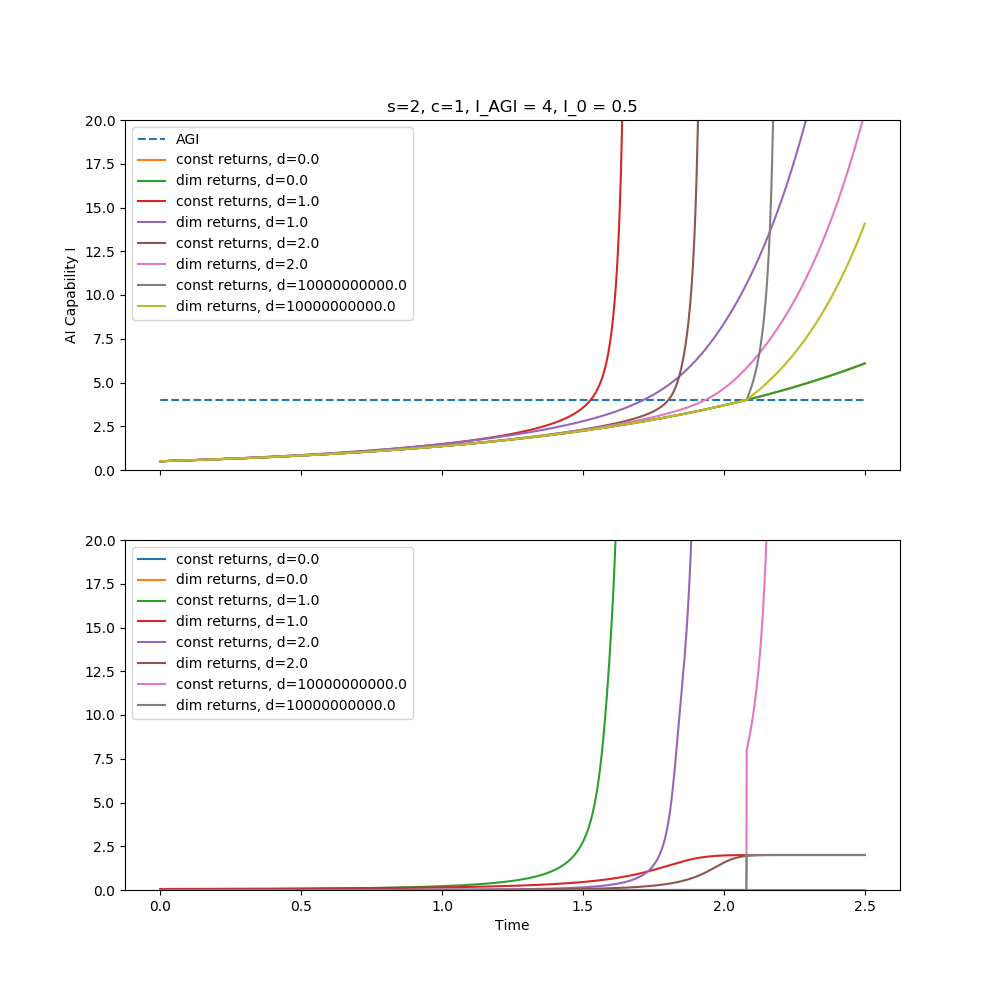
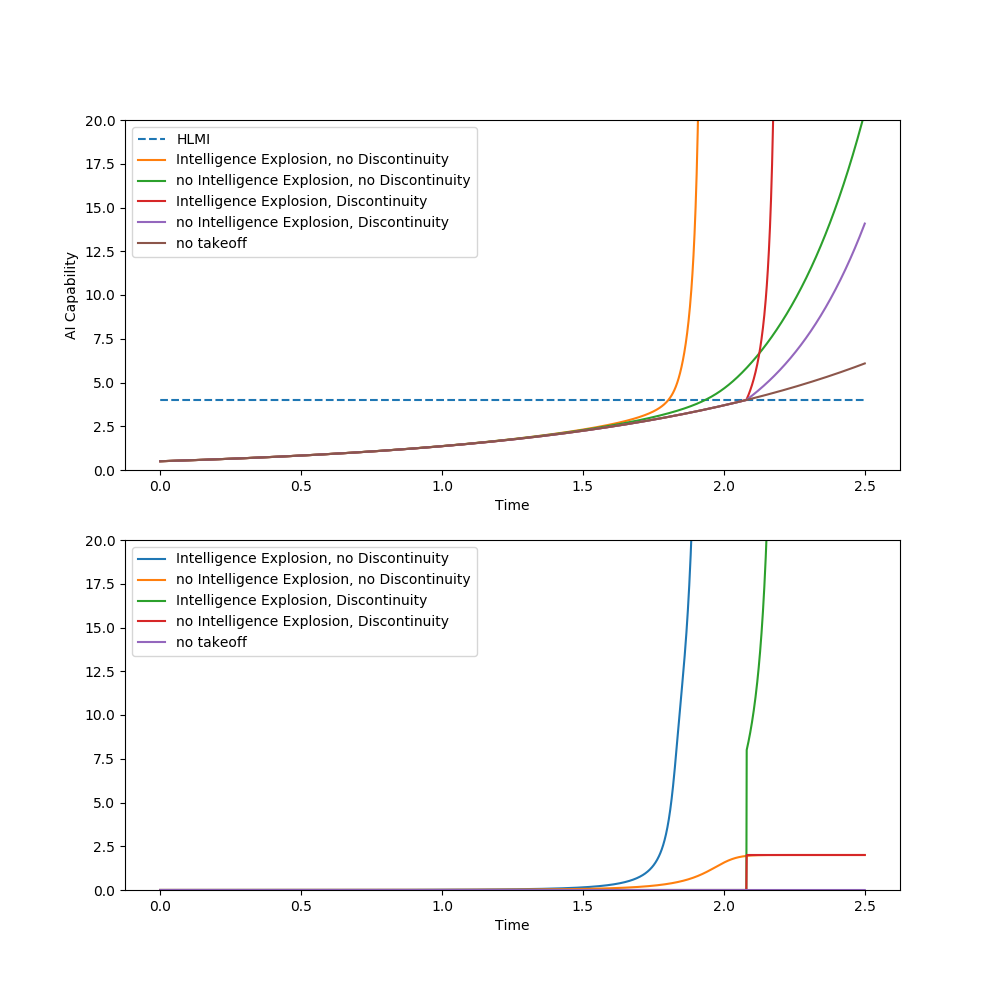
added relativistic travel ipynb

diff --git a/progress.py b/progress.py
@@ -98,7 +98,7 @@ def diminishing_returns_function(Intelligence,steep=None):
     else:
         return 0
 
-def slow_function(Intelligence):
+def slow_function(Intelligence,steep=None):
     return 0
 
 def superintelligence_box_function(Intelligence):
@@ -111,7 +111,7 @@ if __name__ == "__main__":
     c = effort = 1 #initial optimisation effort applied to AGI
     #N = 2 #how sudden is the continuous change - higher is higher order polynomial
     I_0 = IniInt = 0.5 #Initial capability of the AI system
-    krange = np.hstack((np.array([0.0,1.0,2.0]),np.array(1e10)))
+    krange = np.hstack((np.array([0.0,2.0]),np.array(1e10)))
     k=1
     d=k #steepness of logistic curve
 
@@ -124,12 +124,20 @@ if __name__ == "__main__":
     infostring = "s={}, c={}, I_AGI = {}, I_0 = {}_".format(scale,effort,AGI,IniInt)
 
     t = np.linspace(0,2*AGI,precision)
-    plt.plot(t,[yud_function(t1) for t1 in t],label='yudkowsky')
-    for k in krange:
-        plt.plot(t,[continuous_function(t1) for t1 in t],label='Continuous, '+str(k))
-    for k in krange:
-        plt.plot(t,[diminishing_returns_function(t1) for t1 in t],label='Dim_R, '+str(k))
-    
+    #plt.plot(t,[yud_function(t1) for t1 in t],label='yudkowsky')
+
+    """
+    k=1.0
+    plt.plot(t,[continuous_function(t1) for t1 in t],label='No Discontinuity, Intelligence Explosion')
+    k=1e10
+    plt.plot(t,[continuous_function(t1) for t1 in t],label='Discontinuity, Intelligence Explosion')
+    k=1.0
+    plt.plot(t,[diminishing_returns_function(t1) for t1 in t],label='No Discontinuity, No Intelligence Explosion')
+    k=1e10
+    plt.plot(t,[diminishing_returns_function(t1) for t1 in t],label='Discontinuity, No Intelligence Explosion')
+    k=1e10
+    plt.plot(t,[slow_function(t1) for t1 in t],label='No Takeoff')
+
     plt.ylim(0,2)
     #for k in krange:
     #    plt.plot(t,[diminishing_returns_function(t1) for t1 in t],label='Dim-R, '+str(k))
@@ -140,24 +148,37 @@ if __name__ == "__main__":
     plt.legend()
     plt.savefig(infostring+"RSI-able.png")
 
-    fig,(axis1,axis2) = plt.subplots(2,sharex=True,figsize=(10,10))
-    plt.xlabel("Time")
-    axis1.set_ylabel("AI Capability I")
-    axis2.set_ylabel("")
+    """
 
-    axis1.plot(np.linspace(0,top,precision),AGI+np.zeros_like(np.linspace(0,top,precision)),'--',label = 'AGI')
-    axis1.set_title(infostring[:-1])
+    fig,(axis1,axis2) = plt.subplots(2,figsize=(10,10))
+    plt.xlabel("Time")
+    axis1.set_ylabel("AI Capability")
+    axis1.set_xlabel("Time")
+
+    axis1.plot(np.linspace(0,top,precision),AGI+np.zeros_like(np.linspace(0,top,precision)),'--',label = 'HLMI')
+    #axis1.set_title(infostring[:-1])
 
     #print('Discontinuous')
     #progress = AIProgress(yud_function,effort,'Discontinuous',top,precision,IniInt)
     #progress.get_results(axis1,axis2)
 
     print('Continuous')
-    for k in krange:
-        progress2 = AIProgress(continuous_function,effort, 'const returns, d=' +str(k),top,precision,IniInt)
-        progress3 = AIProgress(diminishing_returns_function,effort, 'dim returns, d=' +str(k),top,precision,IniInt)
-        progress2.get_results(axis1,axis2)
-        progress3.get_results(axis1,axis2)
+    
+    k=2.0
+    progress2 = AIProgress(continuous_function,effort, 'Intelligence Explosion, no Discontinuity',top,precision,IniInt)
+    progress3 = AIProgress(diminishing_returns_function,effort, 'no Intelligence Explosion, no Discontinuity',top,precision,IniInt)
+    
+    progress2.get_results(axis1,axis2)
+    progress3.get_results(axis1,axis2)
+
+    k=1e10
+    progress4 = AIProgress(continuous_function,effort, 'Intelligence Explosion, Discontinuity',top,precision,IniInt)
+    progress5 = AIProgress(diminishing_returns_function,effort, 'no Intelligence Explosion, Discontinuity',top,precision,IniInt)
+    progress6 = AIProgress(slow_function,effort, 'no takeoff',top,precision,IniInt)
+    
+    progress4.get_results(axis1,axis2)
+    progress5.get_results(axis1,axis2)
+    progress6.get_results(axis1,axis2)
 
     
     #print('Slow')
